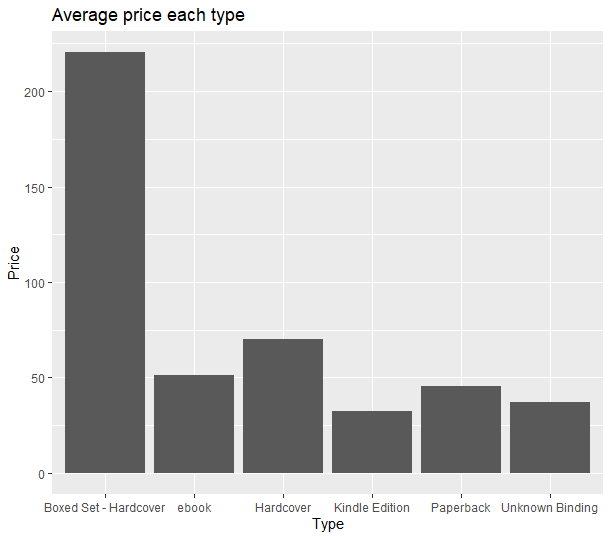
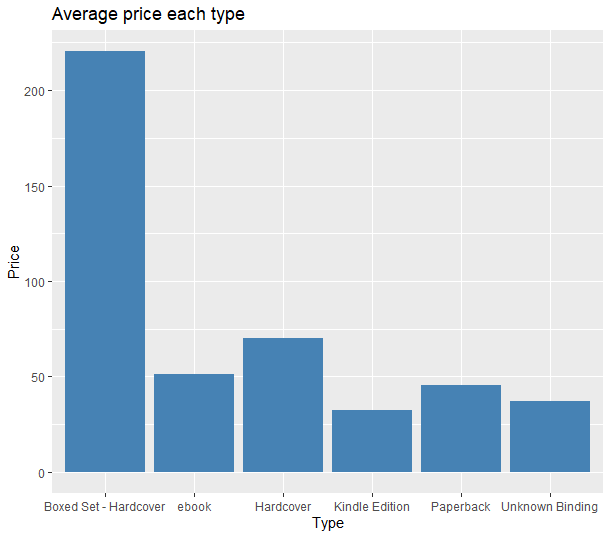
Add files via upload

diff --git a/assignments/HW4/HW04_63130500046/HW04_63130500046.md b/assignments/HW4/HW04_63130500046/HW04_63130500046.md
@@ -34,22 +34,18 @@ glimpse(CSBooks)
 
 str(CSBooks)
 ```
-
   In this dataset has 7 columns are Rating, Reviews, Book_title, Description, Number_of_pages, Type and Price and there are 271 rows.
   
 ## Part 2: Learning function from Tidyverse
-
 - Function `summarise()` is typically used on grouped data created by `group_by()`from package [dplyr](https://dplyr.tidyverse.org/articles/dplyr.html#select-columns-with-select)). The output will have one row for each group.
 
 ```R
   starwars %>% group_by(gender) %>% summarise(avg_height = mean(height, na.rm =T))
 
 ```
-
 ## Part 3: Transform data with dplyr and finding insight the data
 
   3.1) All book type and average price each one of them.  
-  
 ```R
 avg_price_each <- CSBooks %>% group_by(Type) %>% select(Price) %>% summarise(Price = mean(Price , na.rm = T))
 
@@ -58,27 +54,19 @@ avg_price_each
 ```
 
   3.2) The highest rating of Hardcover book type and title.
-  
 ```R
-
 mr_hardcover <- CSBooks %>% select(Book_title, Type , Rating) %>% filter(Type =="Hardcover") %>% filter(Rating == max(Rating)) 
 
 cat("The Hardcover book type that has highest rating is" , mr_hardcover$Book_title,"and rating is",mr_hardcover$Rating)
-
 ```
 
   3.3) The higest rating of book each type.
-  
 ```R
-
 CSBooks %>% select(Book_title, Type , Rating) %>% group_by(Type) %>% summarise(Rating = max(Rating))
-
 ```
 
   3.4) Type of book that have average number of pages above overall average.
-  
 ```R
-
 overall_avg <- CSBooks %>% summarise(Overall_avg = mean(Number_Of_Pages , na.rm = T))
 overall_avg
   
@@ -87,20 +75,15 @@ avg_page <- CSBooks %>% select(Type ,Number_Of_Pages) %>% group_by(Type) %>%
             filter(avg_pages > overall_avg$Overall_avg)
 
 cat("Type of book that have average number of pages above overall average are" , avg_page$Type)
-
 ```
  
   3.5) non- Boxed set book with highest number of pages.
-  
 ```R
-
 CSBooks %>% filter(Type != "Boxed Set") %>% select(Book_title , Type , Number_Of_Pages , Price) %>%
         filter(Number_Of_Pages == max(Number_Of_Pages))
 ```
   3.6) 2 Book with the price nearest left side and right side of the median price.
-  
 ```R
-
 #find median price
 median <- CSBooks %>% summarise(median = median(Price , na.rm =T))
 
@@ -113,7 +96,6 @@ cat("Book title with the nearest price to median from left side is:" ,
     nearest_ls$Book_title ,"and right side is:" , nearest_rs$Book_title)
 
 ```
-
 ## Part 4: Visualization with GGplot2
 
   1).show scatter plot of price and number of pages.
@@ -126,7 +108,6 @@ Scatter1 <- CSBooks %>% filter(Number_Of_Pages < 1500) %>%
 Scatter1+geom_smooth(method="lm")
 
 ```
-
 Result:
 
 
@@ -140,10 +121,9 @@ Result:
   
 ```R
 Barplot <- ggplot(avg_price_each , aes(x = Type,y = Price)) + 
-           geom_bar(stat = 'identity') + ggtitle("Average price each type")
+           geom_bar(stat = 'identity', fill = "steelblue") + ggtitle("Average price each type")
 
 ```
-
 Result:
 
 
